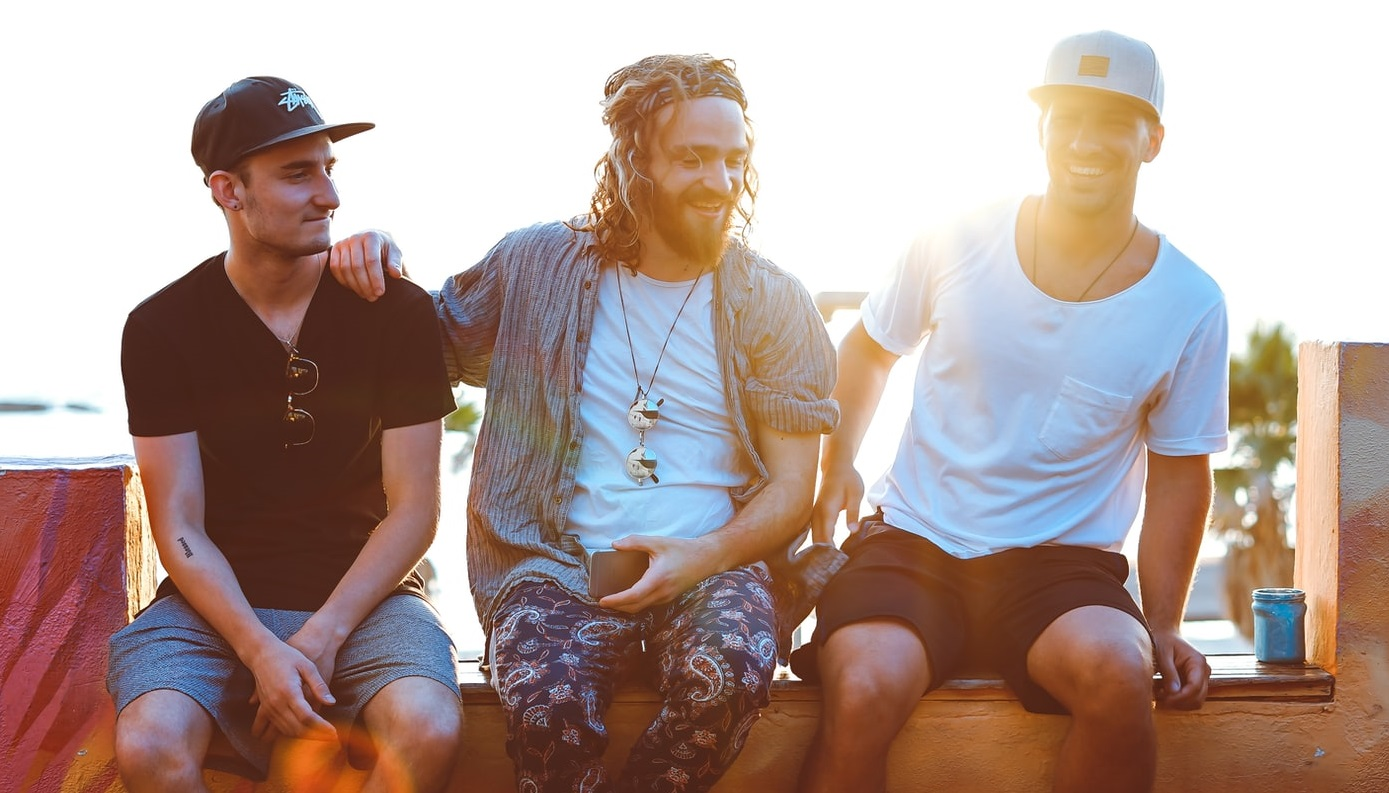
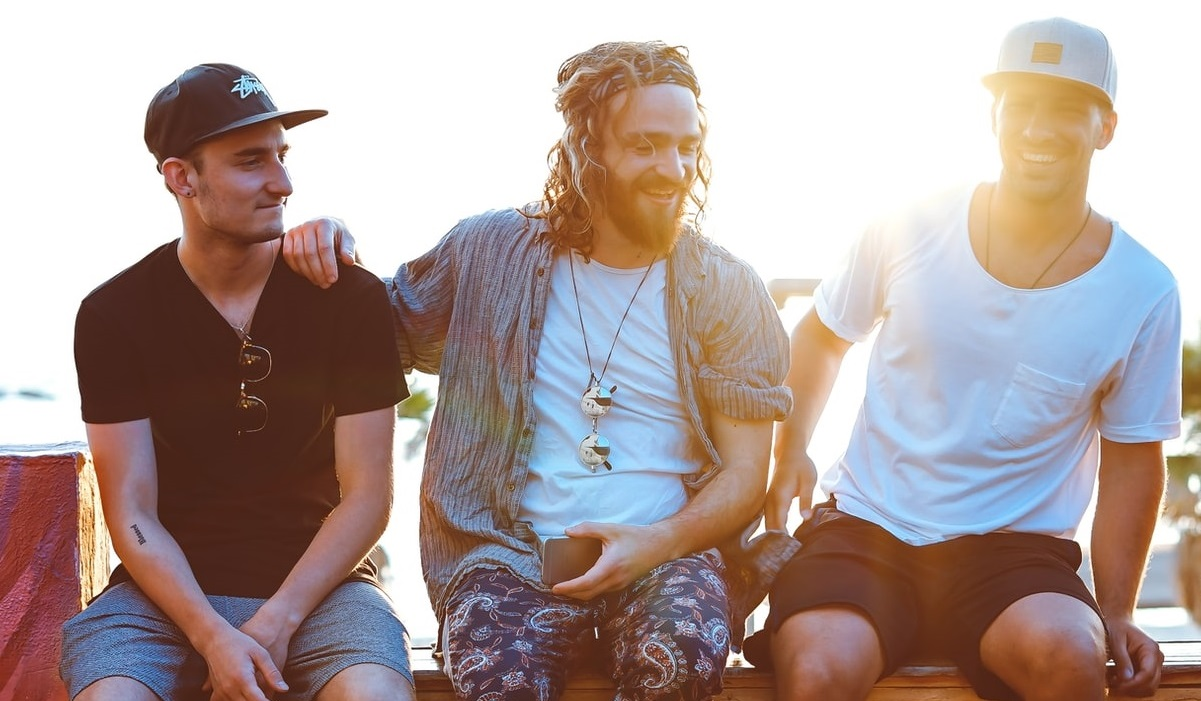
modificaciones en texto de html nosotros e imagen

diff --git a/pages/nosotros.html b/pages/nosotros.html
@@ -64,13 +64,15 @@
     <!--Inicio Main-->
     <main class="container">
         <section class="row">
-            <article class="col-md-12">
+            <article class="col-md-12 text-center">
               <h1>Nuestra historia</h1>
             </article>
-            <article class="presentacionNosotros col-4 d-flex items-aling-center justifi-content-center">
-                <p>MyShoes es una empresa que comenzo como un sueño, en un cafe, entre 3 amigos de toda la vida, comenzamos con venta directa la capital de Tucuman, nuestra provincia natal y luego fuimos creciendo hasta poder extender nuestro negocio a la venta online.</p>
+            <article class="presentacionNosotros col-12 d-flex items-aling-center justifi-content-center">
+                <p>MyShoes es una empresa que comenzo como un sueño, en un cafe, entre 3 amigos de toda la vida. Comenzamos con venta directa en la capital de la privincia de Tucuman, nuestra ciudad natal y luego fuimos creciendo hasta poder extender nuestro negocio a la venta online.</p>
             </article>
-            <article class=" fotoFriends col-8 mt-3 mb-3"><img src="../img/friends.jpg" class="img-fluid" alt="friends"></article>
+            <article class=" fotoFriends col-12 mb-5 mt-3">
+              <img src="../img/nosotrosImg.jpg" class="img-fluid" alt="friendsdos">
+            </article>
         </section>
     </main> 
     <!--Comienzo Footer-->

diff --git a/scss/estilo.scss b/scss/estilo.scss
@@ -127,6 +127,9 @@
 .presentacionNosotros {
     text-align: center;
     font-size: 1em;
+    p {
+        font-size: $dimension-chica;
+    }
 }
 
 .fotoFriends img {
